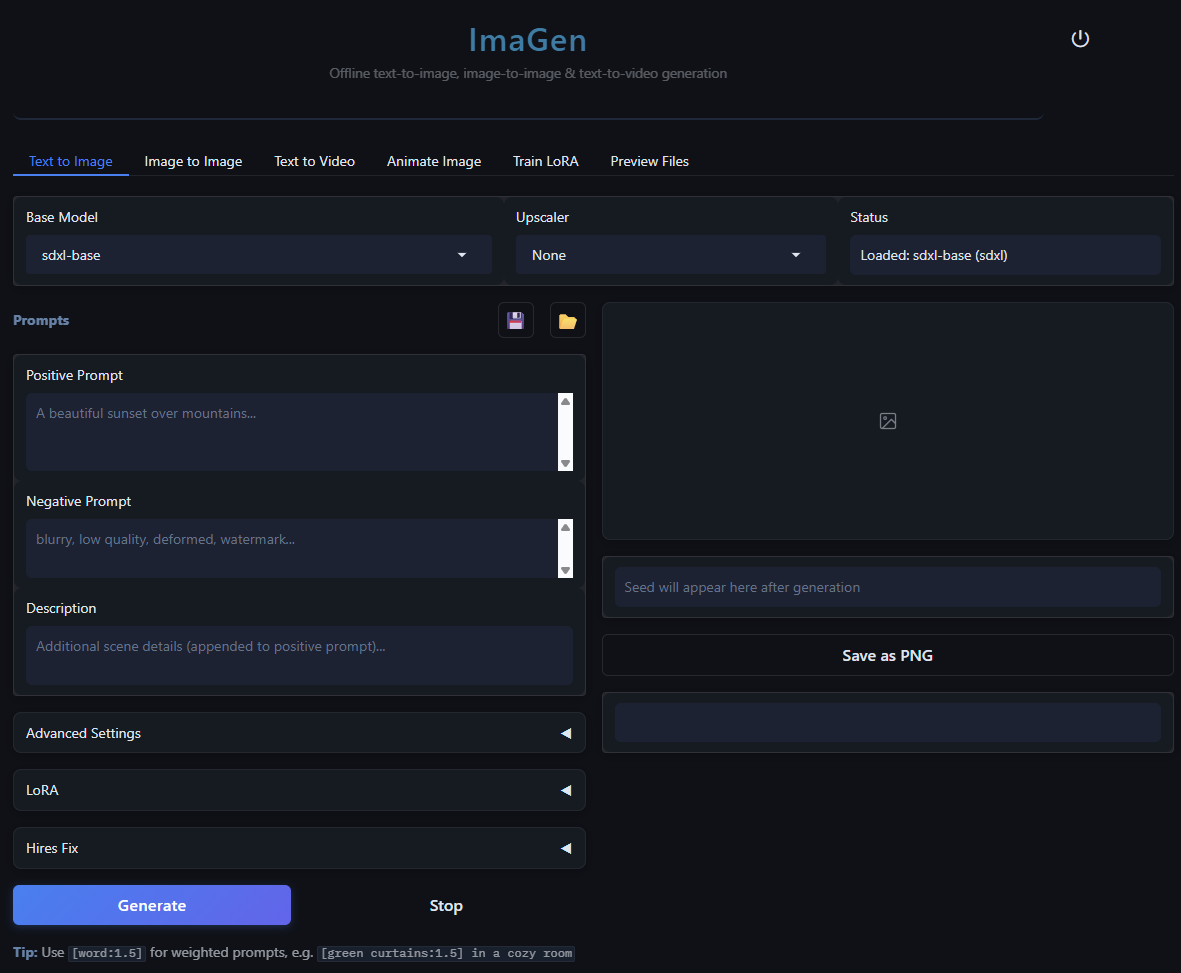
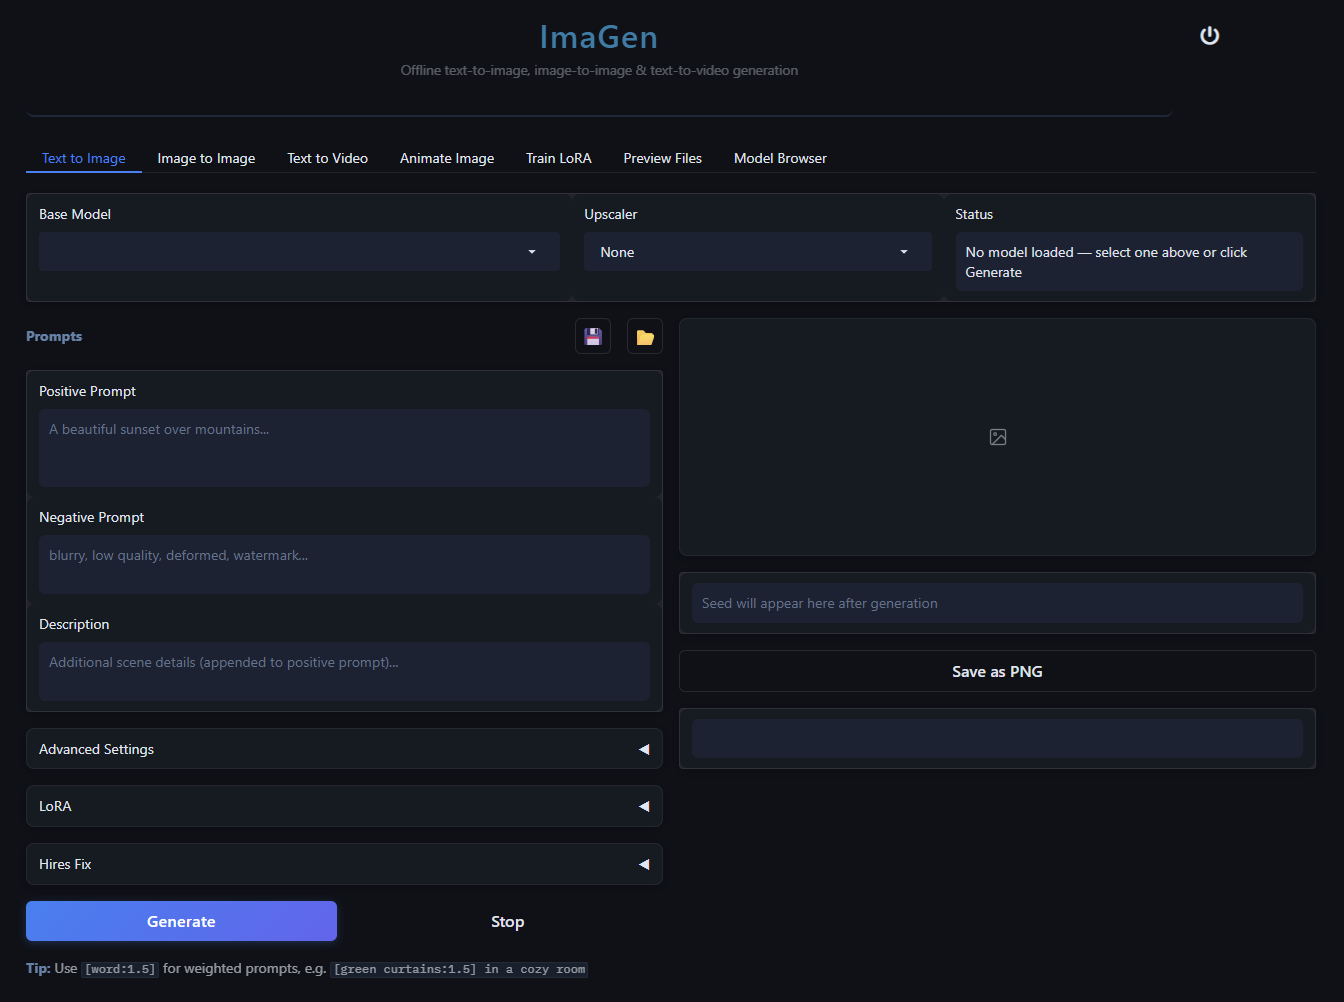
Fix Model Browser tile selection and display crash
- Change browse_results_display from gr.Dataframe to gr.HTML to fix
  crash where Gradio tried to parse HTML tiles as CSV
- Replace browse_model_info gr.Textbox with gr.HTML for direct DOM
  updates, bypassing Gradio 5's Svelte reactivity limitations
- Tile onclick now sets info display via plain JS (getElementById +
  textContent) and stores selection in window._browseSelectedIdx
- Download button reads selection via Gradio js parameter instead of
  broken hidden component bridge
- Remove unused _browse_on_select Python callback

diff --git a/app.py b/app.py
@@ -2068,12 +2068,8 @@ def build_ui():
                 browse_results_state = gr.State([])  # holds full result dicts
                 browse_cursor_state = gr.State(None)  # next page cursor
                 browse_page_num_state = gr.State(1)  # display page number
-                browse_results_display = gr.Dataframe(
-                    headers=["Name", "Type", "Size", "Version"],
-                    datatype=["str", "str", "str", "str"],
-                    interactive=False,
-                    label="Results (click a row to select)",
-                    row_count=(20, "dynamic"),
+                browse_results_display = gr.HTML(
+                    value="<div style='color:#888; padding:1em;'>Click Search to load results.</div>",
                 )
 
                 with gr.Row():
@@ -2088,8 +2084,8 @@ def build_ui():
                 browse_selected_idx = gr.Number(
                     value=-1, visible=False, elem_id="browse_selected_idx",
                 )
-                browse_model_info = gr.Textbox(
-                    label="Selected", interactive=False, max_lines=1,
+                browse_model_info = gr.HTML(
+                    value='<div id="browse_model_info_display" style="padding:8px 12px; min-height:24px; border:1px solid #444; border-radius:6px; color:#ccc; background:#1a1a1a; font-size:13px;">Click a tile to select a model</div>',
                 )
                 with gr.Row():
                     browse_download_btn = gr.Button(
@@ -2121,6 +2117,11 @@ def build_ui():
                         full_name_escaped = r["name"].replace('"', "&quot;")
                         model_type_label = r.get("type", "")
                         size = r.get("file_size_str", "")
+                        # Build info string for direct JS display
+                        info = f"{r['name']} ({r.get('type','')}) — {r.get('filename','')} — {r.get('file_size_str','')}"
+                        if not r.get("download_url"):
+                            info += " | ⚠ May require API key"
+                        info_escaped = info.replace("'", "\\'").replace('"', "&quot;")
                         if img_url:
                             img_tag = (
                                 f'<img src="{img_url}" '
@@ -2134,7 +2135,7 @@ def build_ui():
                                 'justify-content:center; color:#666;">No Preview</div>'
                             )
                         tiles.append(
-                            f'<div class="browse-tile" data-idx="{idx}" '
+                            f'<div class="browse-tile" data-idx="{idx}" data-info="{info_escaped}" '
                             f'style="width:150px; border:1px solid #444; border-radius:6px; '
                             f'overflow:hidden; background:#1a1a1a; cursor:pointer; '
                             f'transition: border-color 0.15s;" '
@@ -2142,8 +2143,9 @@ def build_ui():
                             f'onmouseout="if(!this.classList.contains(\'selected\'))this.style.borderColor=\'#444\'" '
                             f'onclick="document.querySelectorAll(\'.browse-tile\').forEach(t=>{{t.classList.remove(\'selected\');t.style.borderColor=\'#444\'}});'
                             f'this.classList.add(\'selected\');this.style.borderColor=\'#7c3aed\';'
-                            f'let inp=document.querySelector(\'#browse_selected_idx input\');'
-                            f'if(inp){{inp.value={idx};inp.dispatchEvent(new Event(\'input\',{{bubbles:true}}));}}">'
+                            f'window._browseSelectedIdx={idx};'
+                            f'var el=document.getElementById(\'browse_model_info_display\');'
+                            f'if(el){{el.textContent=this.dataset.info;}}">'
                             f'{img_tag}'
                             f'<div style="padding:6px; font-size:11px;">'
                             f'<div style="font-weight:600; white-space:nowrap; overflow:hidden; '
@@ -2192,17 +2194,6 @@ def build_ui():
                     if page_num <= 1:
                         return _browse_do_search(query, model_type, base_model, content, sort, per_page, None, 1)
                     return _browse_do_search(query, model_type, base_model, content, sort, per_page, None, 1)
-
-                def _browse_on_select(idx, results):
-                    """Show file info when a tile is clicked."""
-                    idx = int(idx)
-                    if idx < 0 or not results or idx >= len(results):
-                        return ""
-                    r = results[idx]
-                    info = f"{r['name']} ({r['type']}) — {r['filename']} — {r['file_size_str']}"
-                    if not r.get("download_url"):
-                        info += " | ⚠ May require API key"
-                    return info
 
                 def _browse_download_selected(results, selected_idx, api_key_input):
                     no_update = gr.update()
@@ -2274,18 +2265,15 @@ def build_ui():
                     outputs=_search_outputs,
                 )
 
-                # Wire tile selection → show file info
-                browse_selected_idx.change(
-                    fn=_browse_on_select,
-                    inputs=[browse_selected_idx, browse_results_state],
-                    outputs=[browse_model_info],
-                )
-
                 # Wire download (also refreshes model dropdowns on success)
+                # Uses js parameter to inject window._browseSelectedIdx since
+                # Gradio 5's Svelte reactivity doesn't support programmatic
+                # value setting on hidden components from inline JS.
                 browse_download_btn.click(
                     fn=_browse_download_selected,
                     inputs=[browse_results_state, browse_selected_idx, browse_api_key],
                     outputs=[browse_download_status, model_dropdown, i2i_model_dropdown],
+                    js="(results, idx, key) => [results, window._browseSelectedIdx ?? -1, key]",
                 )
 
                 # Wire API key save
